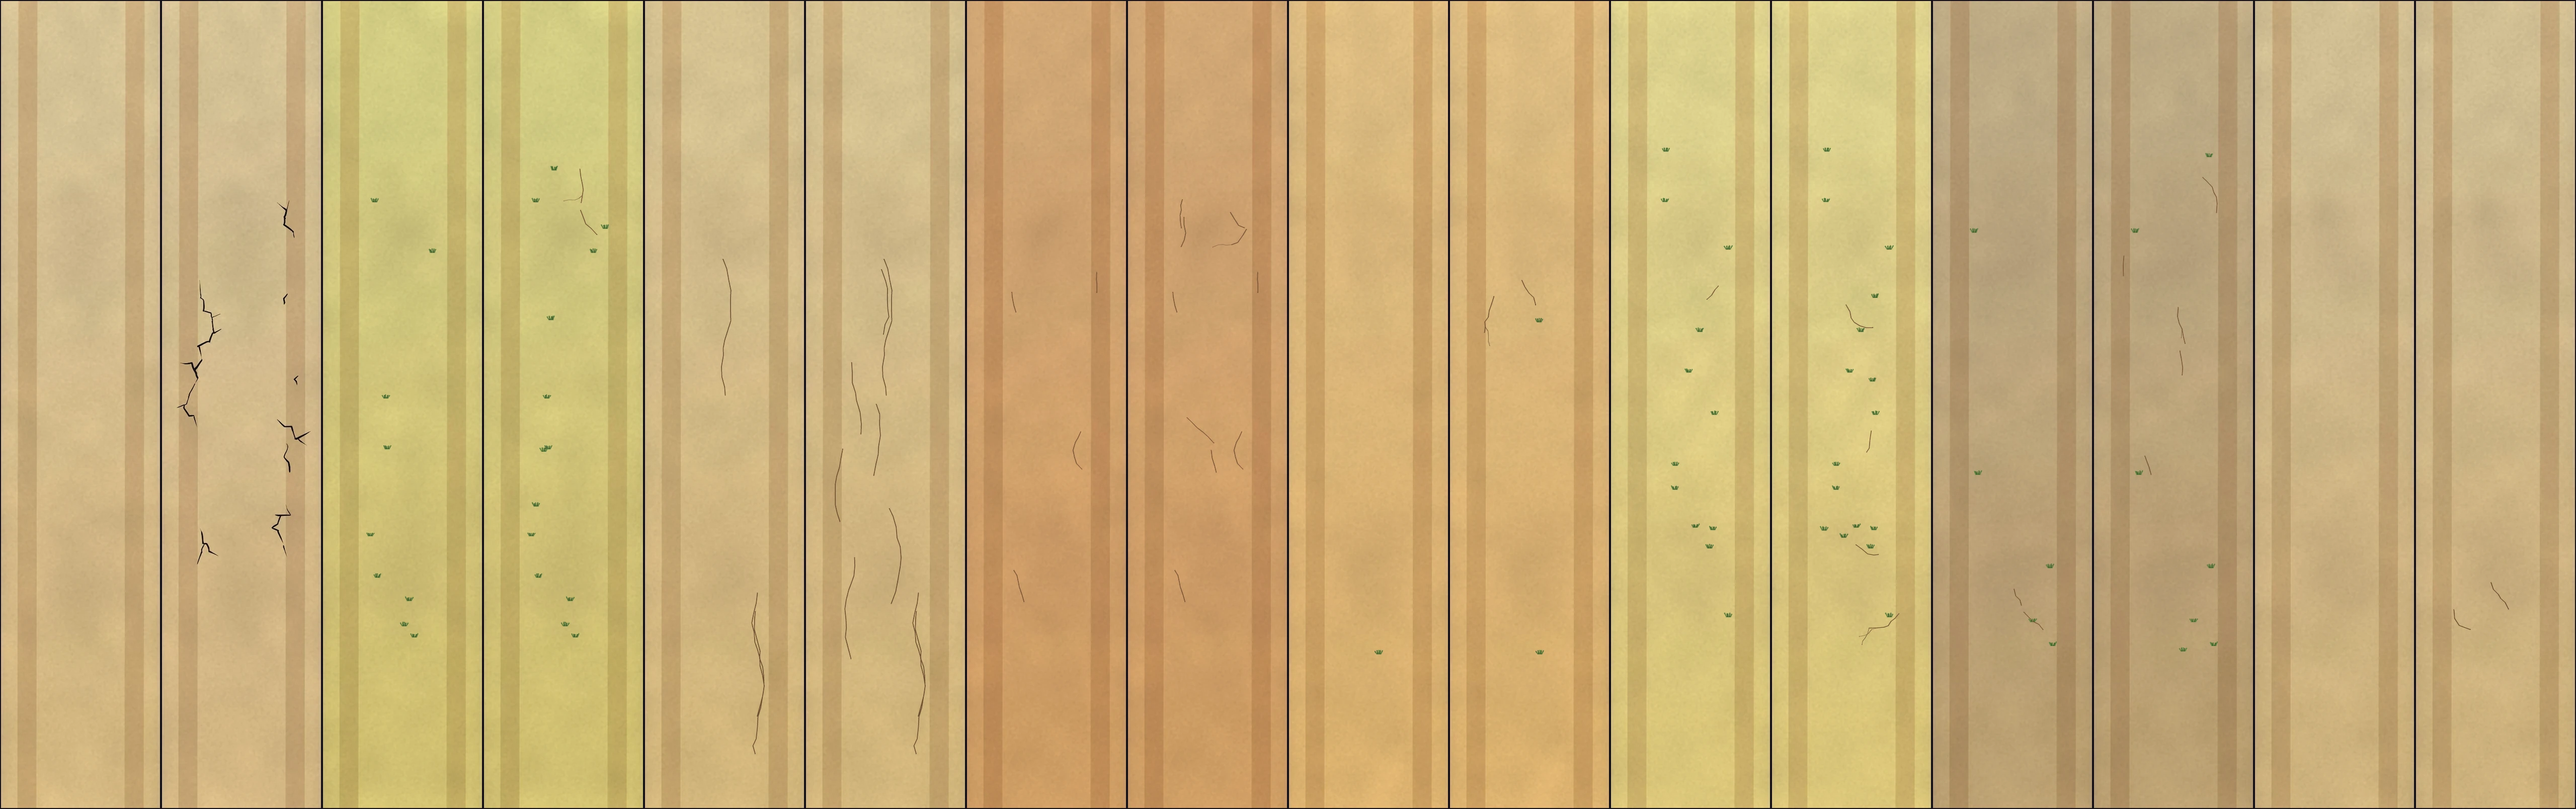
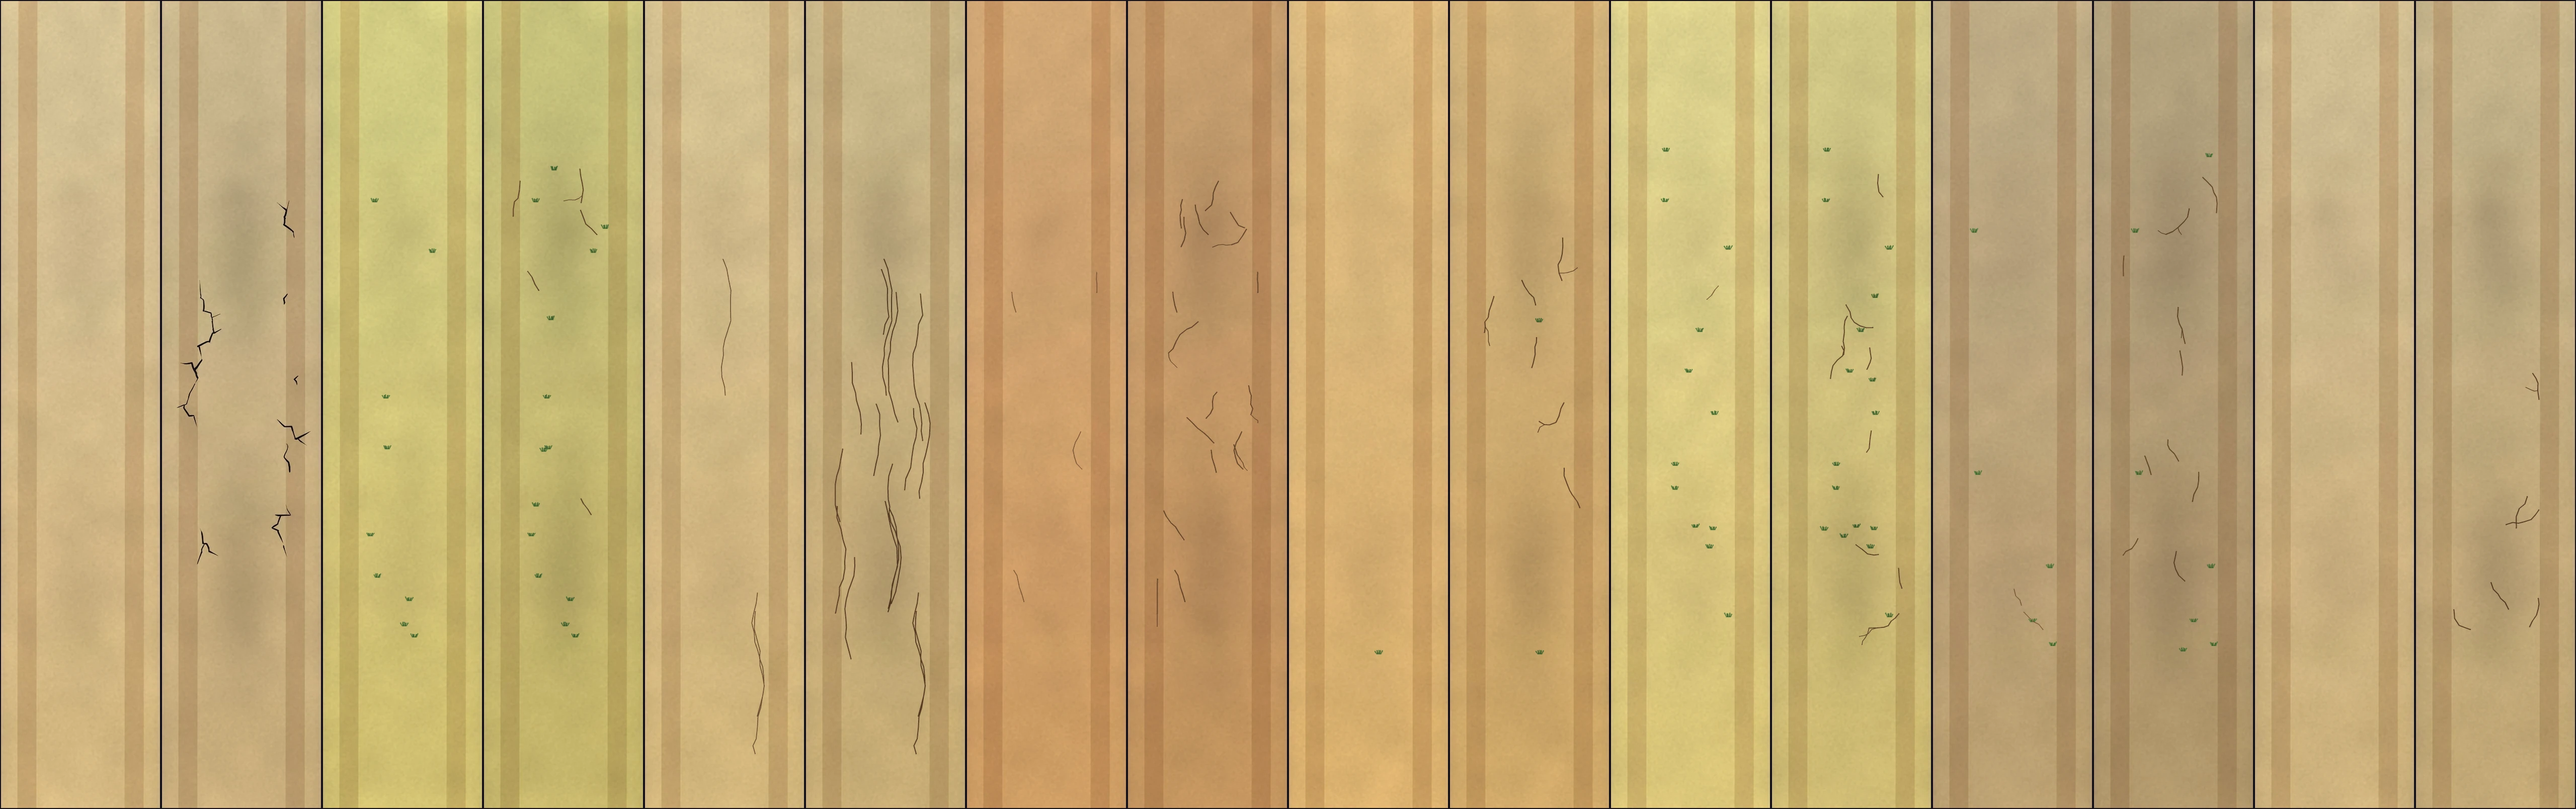
Pitch wear stronger: more and darker cracks late, longer worn lanes, a duller surface, and the Thunderdome wears to 60% (preview)
Claude-Session: https://claude.ai/code/session_01NK7tbrKg5PdA6fuyEUPXLd

Changed region(s): [[0.6875, 0.653, 0.75, 0.7152], [0.5938, 0.2799, 0.625, 0.342], [0.7188, 0.2799, 0.75, 0.3109]]

diff --git a/js/grounds.js b/js/grounds.js
@@ -12,7 +12,7 @@ export const GROUNDS = {
     name: 'The Thunderdome', time: 'day', landmark: 'bolts',
     sky: ['#1f56c0', '#2f7be0', '#9fd0ff'], skyline: '#0b1640', windows: ['#ffd23f', '#9fd8ff'],
     grass: ['#1c7a3e', '#2a9a4a'], pitchCol: '#e2c27f',
-    pitch: { id: 'flat', name: 'Flat road', report: 'Rock hard, true bounce, and shots carry: time it and it flies. Expect sixes.', bat: 1.08, ai: 0.92, swing: 0.8, seam: 0.8, turn: 0.85, carry: 1.05, lookWear: 0.3 },
+    pitch: { id: 'flat', name: 'Flat road', report: 'Rock hard, true bounce, and shots carry: time it and it flies. Expect sixes.', bat: 1.08, ai: 0.92, swing: 0.8, seam: 0.8, turn: 0.85, carry: 1.05, lookWear: 0.6 },
   },
   cyclones: {
     name: 'Cyclone Park', time: 'day', landmark: 'turbines',
